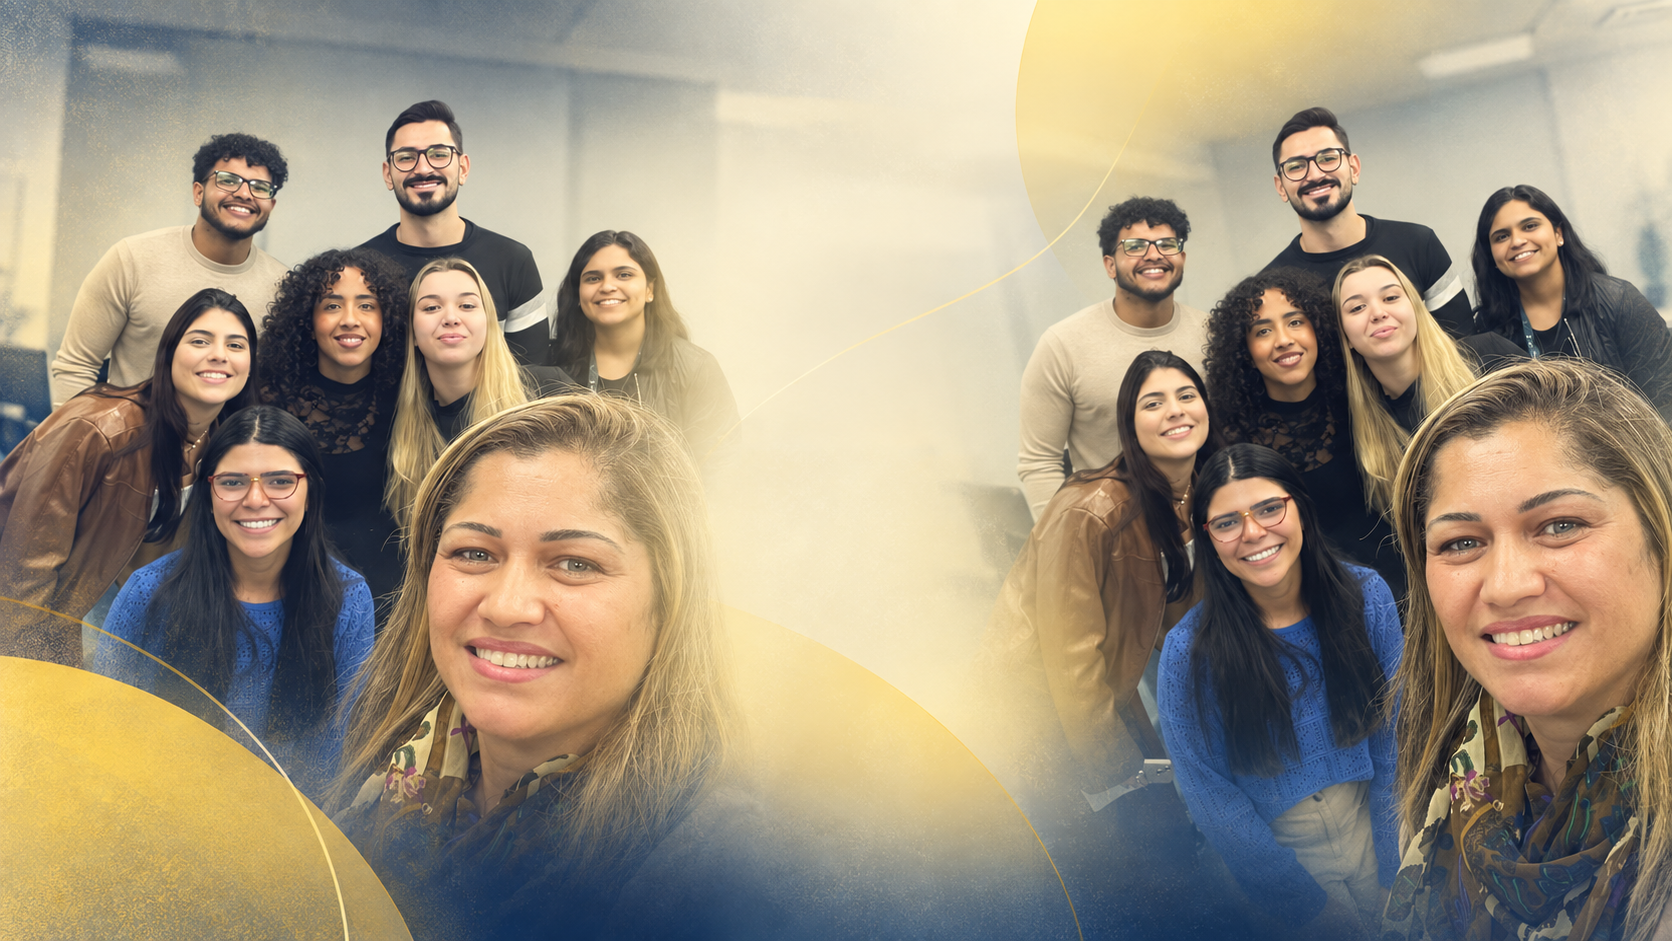
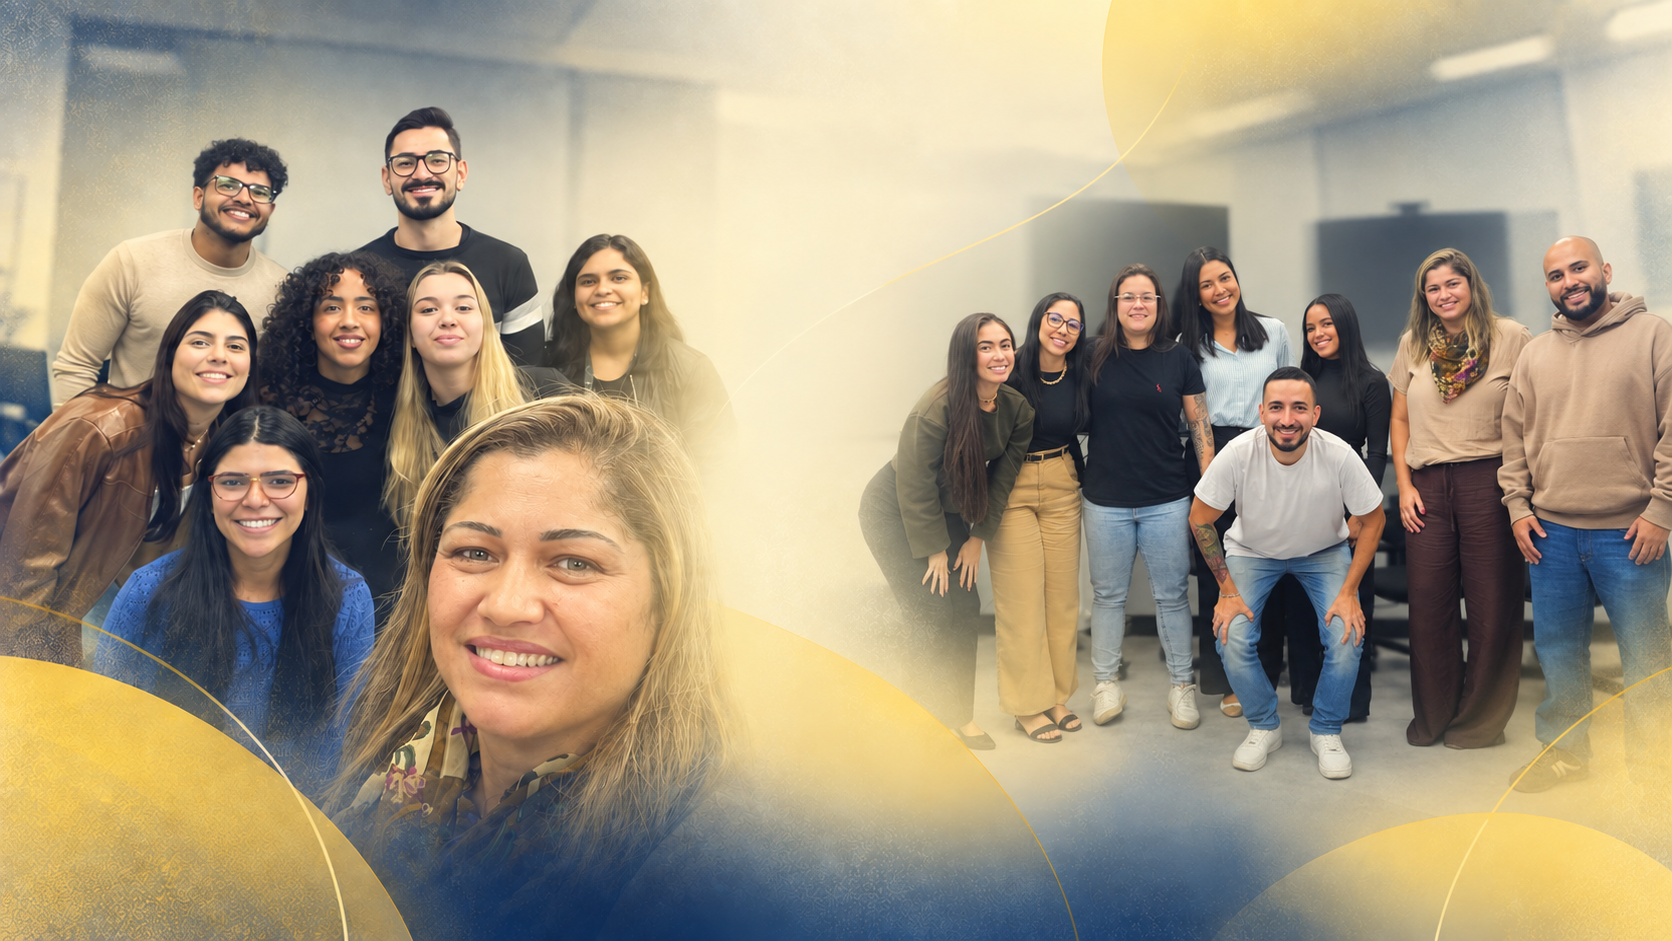
feat: atualizar montagem de lideranca

diff --git a/public/assets/css/mb-news-setembro.css b/public/assets/css/mb-news-setembro.css
@@ -739,7 +739,7 @@
   pointer-events: none;
   background-image:
     linear-gradient(90deg, rgba(255, 253, 247, .18) 0%, rgba(255, 253, 247, .78) 42%, rgba(255, 253, 247, .78) 58%, rgba(255, 253, 247, .18) 100%),
-    url('/images/mb-news/setembro/lideranca-setembro-amarelo.png');
+    url('/images/mb-news/setembro/lideranca-setembro-amarelo.png?v=20260923-team-v2');
   background-position: center, center;
   background-repeat: no-repeat;
   background-size: cover, cover;

diff --git a/public/pages/mb-news-setembro-2026.html b/public/pages/mb-news-setembro-2026.html
@@ -1583,7 +1583,7 @@
     }
   </style>
   <link rel="stylesheet" href="/assets/css/mb-news-film.css" />
-  <link rel="stylesheet" href="/assets/css/mb-news-setembro.css?v=20260923-leadership" />
+  <link rel="stylesheet" href="/assets/css/mb-news-setembro.css?v=20260923-leadership-v2" />
   <link rel="stylesheet" href="/assets/css/mb-news-birthdays.css" />
 </head>
 <body class="september-theme">

diff --git a/CONTEXT.md b/CONTEXT.md
@@ -769,6 +769,16 @@ Estado atual: guia do TotalPass disponível nas edições de agosto e setembro.
 
 Próximo passo recomendado: substituir a reprodução pela arte original em ambas as edições caso o PNG/JPG seja anexado.
 
+## Sessão 2026-09-23 — Atualização da montagem de liderança
+
+- Criada uma nova montagem horizontal combinando a composição anterior com a nova foto da equipe enviada pelo usuário.
+- Mantida a área central clara para preservar a leitura do título, da descrição e dos cards da seção Setembro Amarelo.
+- Substituído `public/images/mb-news/setembro/lideranca-setembro-amarelo.png` pela nova arte.
+
+Estado atual: a seção `#evento` usa a nova montagem como fundo com a mesma camada de opacidade e o mesmo tratamento responsivo.
+
+Próximo passo recomendado: validar a nova composição no link local e publicar quando aprovada.
+
 Publicação: commit `776193f` enviado para `main`; a Vercel publicou a atualização em `https://mbnews.vercel.app/`.
 
 Validação em produção: home, edição de agosto e a imagem de Luana responderam com `200 OK`; a página de agosto contém a referência correta da nova foto.

diff --git a/DECISIONS.md b/DECISIONS.md
@@ -1559,3 +1559,20 @@ A seção de liderança precisava de mais presença visual, mas o título, o tex
 ### Escopo
 
 Adicionado `public/images/mb-news/setembro/lideranca-setembro-amarelo.png` e criadas as regras específicas em `public/assets/css/mb-news-setembro.css`, com ajuste responsivo para mobile.
+
+## ADR-079: Atualização da montagem de liderança
+
+**Data:** 2026-09-23
+**Status:** Implementado
+
+### Decisão
+
+Substituir a arte de fundo da seção `#evento` por uma nova montagem que combina a composição anterior com a nova foto de equipe enviada pelo usuário.
+
+### Motivo
+
+Incluir o novo registro fotográfico na seção sem criar um bloco adicional ou comprometer a leitura do conteúdo editorial.
+
+### Escopo
+
+Atualizado `public/images/mb-news/setembro/lideranca-setembro-amarelo.png`; as regras de opacidade, degradê central e responsividade permanecem no CSS existente.

diff --git a/docs/sessions/2026-09-23.md b/docs/sessions/2026-09-23.md
@@ -21,3 +21,9 @@
 
 - Playwright confirmou a imagem no `background-image` da seção, opacidade reduzida, dois cards preservados e nenhum recurso com resposta 4xx/5xx.
 - A captura local mostrou título, descrição e cards legíveis sobre a composição.
+
+## Atualização da montagem
+
+- Gerada uma nova composição horizontal usando a montagem anterior e a nova foto de equipe enviada na sessão.
+- Substituído `public/images/mb-news/setembro/lideranca-setembro-amarelo.png` sem alterar o HTML ou as regras de aplicação do fundo.
+- Mantida a opacidade baixa e a faixa clara central para proteger o conteúdo da seção.

diff --git a/TODO.md b/TODO.md
@@ -429,3 +429,9 @@
 - [x] Remover Juan Cavalcante Campello da Rosa da lista de aniversariantes de setembro.
 - [x] Integrar a montagem fotográfica de liderança na seção Setembro Amarelo.
 - [x] Validar opacidade, legibilidade, recursos carregados e comportamento visual da seção localmente.
+
+## Atualização 2026-09-23 — Nova montagem fotográfica
+
+- [x] Combinar a montagem anterior com a nova foto da equipe.
+- [x] Substituir o asset de fundo da seção de liderança.
+- [ ] Validar a nova composição visualmente e publicar após aprovação.

diff --git a/CHANGELOG.md b/CHANGELOG.md
@@ -2,6 +2,12 @@
 
 > Formato: [versão ou data] — O que mudou
 
+## 2026-09-23 - Nova montagem de liderança
+
+### Modificado
+- Atualizada a imagem de fundo da seção Setembro Amarelo com uma montagem combinando a composição anterior e a nova foto da equipe.
+- Preservada a área central clara para manter a legibilidade dos textos e cards.
+
 ## 2026-09-21 - Conteúdos de setembro
 
 ### Entrevista de Amanda
